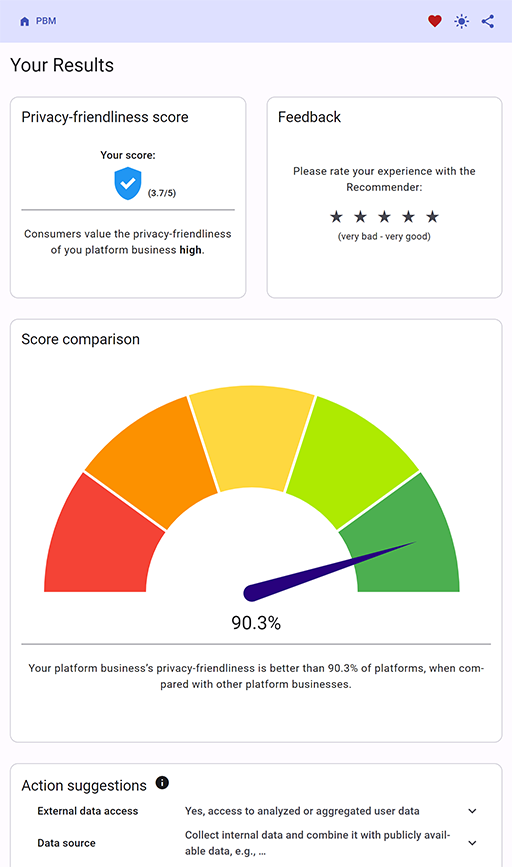
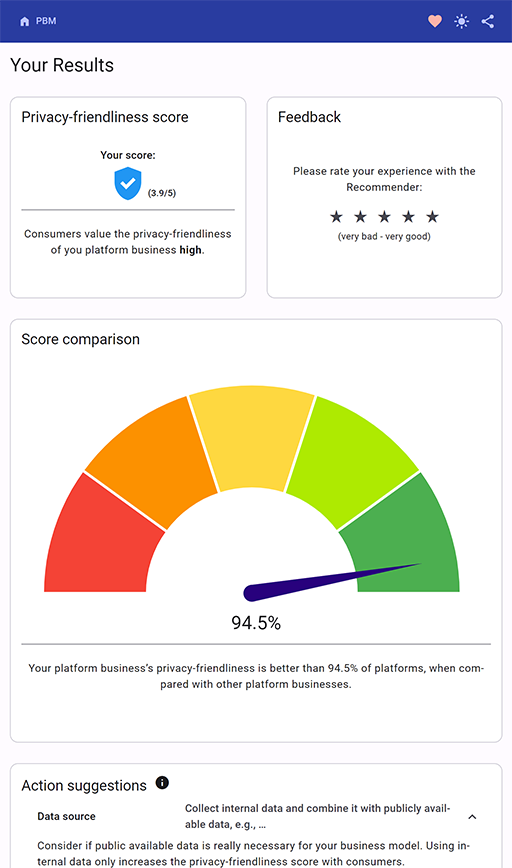
Dark header also for light theme

diff --git a/src/styles.scss b/src/styles.scss
@@ -115,6 +115,7 @@ $dark-theme: my-theme.$dark-theme;
 :root {
   .mat-primary {
     @include mat.icon-color($light-theme, $color-variant: primary);
+    @include mat.fab-color($light-theme, $color-variant: primary);
 
     .mat-step-icon {
       --mat-icon-color: initial;
@@ -137,8 +138,10 @@ $dark-theme: my-theme.$dark-theme;
     @include mat.icon-color($light-theme, $color-variant: error);
   }
 
-  --header-background-color: #{mat.get-theme-color($light-theme, primary-container)};
-  --header-text-color: #{mat.get-theme-color($light-theme, on-primary-container)};
+  --header-background-color: #{mat.get-theme-color($dark-theme, primary-container)};
+  --header-text-color: #{mat.get-theme-color($dark-theme, on-primary-container)};
+  --footer-background-color: #{mat.get-theme-color($light-theme, primary-container)};
+  --footer-text-color: #{mat.get-theme-color($light-theme, on-primary-container)};
   --card-background-color: #{mat.get-theme-color($light-theme, surface-container-lowest)};
   --sponsor-card-background-color: #{mat.get-theme-color($light-theme, surface-container-lowest)};
   --sponsor-card-text-color: #{mat.get-theme-color($light-theme, on-surface)};
@@ -146,12 +149,15 @@ $dark-theme: my-theme.$dark-theme;
   .dark-theme {
     --header-background-color: #{mat.get-theme-color($dark-theme, primary-container)};
     --header-text-color: #{mat.get-theme-color($dark-theme, on-primary-container)};
+    --footer-background-color: #{mat.get-theme-color($dark-theme, primary-container)};
+    --footer-text-color: #{mat.get-theme-color($dark-theme, on-primary-container)};
     --card-background-color: #{mat.get-theme-color($dark-theme, surface-container-highest)};
     --sponsor-card-background-color: #{mat.get-theme-color($light-theme, surface-container-lowest)};
     --sponsor-card-text-color: #{mat.get-theme-color($light-theme, on-surface)};
 
     .mat-primary {
       @include mat.icon-color($dark-theme, $color-variant: primary);
+      @include mat.fab-color($dark-theme, $color-variant: primary);
     }
 
     .mat-secondary {
@@ -166,6 +172,20 @@ $dark-theme: my-theme.$dark-theme;
     }
 
     .mat-error, .mat-warn {
+      @include mat.button-color($dark-theme, $color-variant: error);
+      @include mat.icon-color($dark-theme, $color-variant: error);
+    }
+  }
+
+  // Override light theme colors for dark theme on specific components.
+  .mat-toolbar {
+    .mat-primary {
+      @include mat.button-color($dark-theme, $color-variant: primary);
+      @include mat.icon-color($dark-theme, $color-variant: primary);
+    }
+
+    .mat-error, .mat-warn {
+      @include mat.button-color($dark-theme, $color-variant: error);
       @include mat.icon-color($dark-theme, $color-variant: error);
     }
   }

diff --git a/src/app/recommender/recommender.component.ts b/src/app/recommender/recommender.component.ts
@@ -24,6 +24,7 @@ import {MatButtonModule} from '@angular/material/button';
 import {QuestionDialogComponent} from "../question-dialog/question-dialog.component";
 import {MatDialog} from "@angular/material/dialog";
 import {MatCard} from "@angular/material/card";
+import {NgClass} from "@angular/common";
 
 @Component({
   selector: 'app-recommender',
@@ -38,7 +39,8 @@ import {MatCard} from "@angular/material/card";
     MatOptionModule,
     MatCheckboxModule,
     MatSliderModule,
-    MatCard
+    MatCard,
+    NgClass
   ],
   templateUrl: './recommender.component.html',
   styleUrl: './recommender.component.scss',

diff --git a/src/app/recommender/recommender.component.html b/src/app/recommender/recommender.component.html
@@ -279,7 +279,7 @@
       </mat-step>
     </mat-stepper>
     @if (stepperIndex > 0) {
-      <div class="reset-row">
+      <div class="reset-row" [class.reset-horizontal]="stepperOrientation() == 'horizontal'">
         <button mat-button type="button" color="warn" (click)="onReset(stepper)"
                 aria-label="Reset process button" i18n>Reset all</button>
       </div>

diff --git a/src/app/question-dialog/question-dialog.component.html b/src/app/question-dialog/question-dialog.component.html
@@ -1,6 +1,6 @@
-<h6 mat-dialog-title>{{ data.question }}</h6>
+<div mat-dialog-title>{{ data.question }}</div>
 <mat-dialog-content>
-  <p>{{ data.additionalText }}</p>
+  <div>{{ data.additionalText }}</div>
 </mat-dialog-content>
 <mat-dialog-actions align="end">
   <button mat-button [mat-dialog-close]="false">{{ data.options.other }}</button>

diff --git a/src/app/footer/footer.component.scss b/src/app/footer/footer.component.scss
@@ -3,11 +3,11 @@
   position: absolute;
   width: 100%;
 
-  background-color: var(--header-background-color);
-  color: var(--header-text-color);
+  background-color: var(--footer-background-color);
+  color: var(--footer-text-color);
 
   .text-color {
-    color: var(--header-text-color);
+    color: var(--footer-text-color);
   }
 }
 

diff --git a/src/app/recommender/recommender.component.scss b/src/app/recommender/recommender.component.scss
@@ -16,10 +16,13 @@
 }
 
 .reset-row {
-  // background: var(--mat-stepper-container-color);
-  margin: -60px 24px 0 0;
-  position: absolute;
-  right: 18px;
+  display: flex;
+  justify-content: end;
+  padding: 0 24px 24px 24px;
+}
+
+.reset-horizontal {
+  margin-top: -64px;  // Height of button row
 }
 
 .radio-group {
